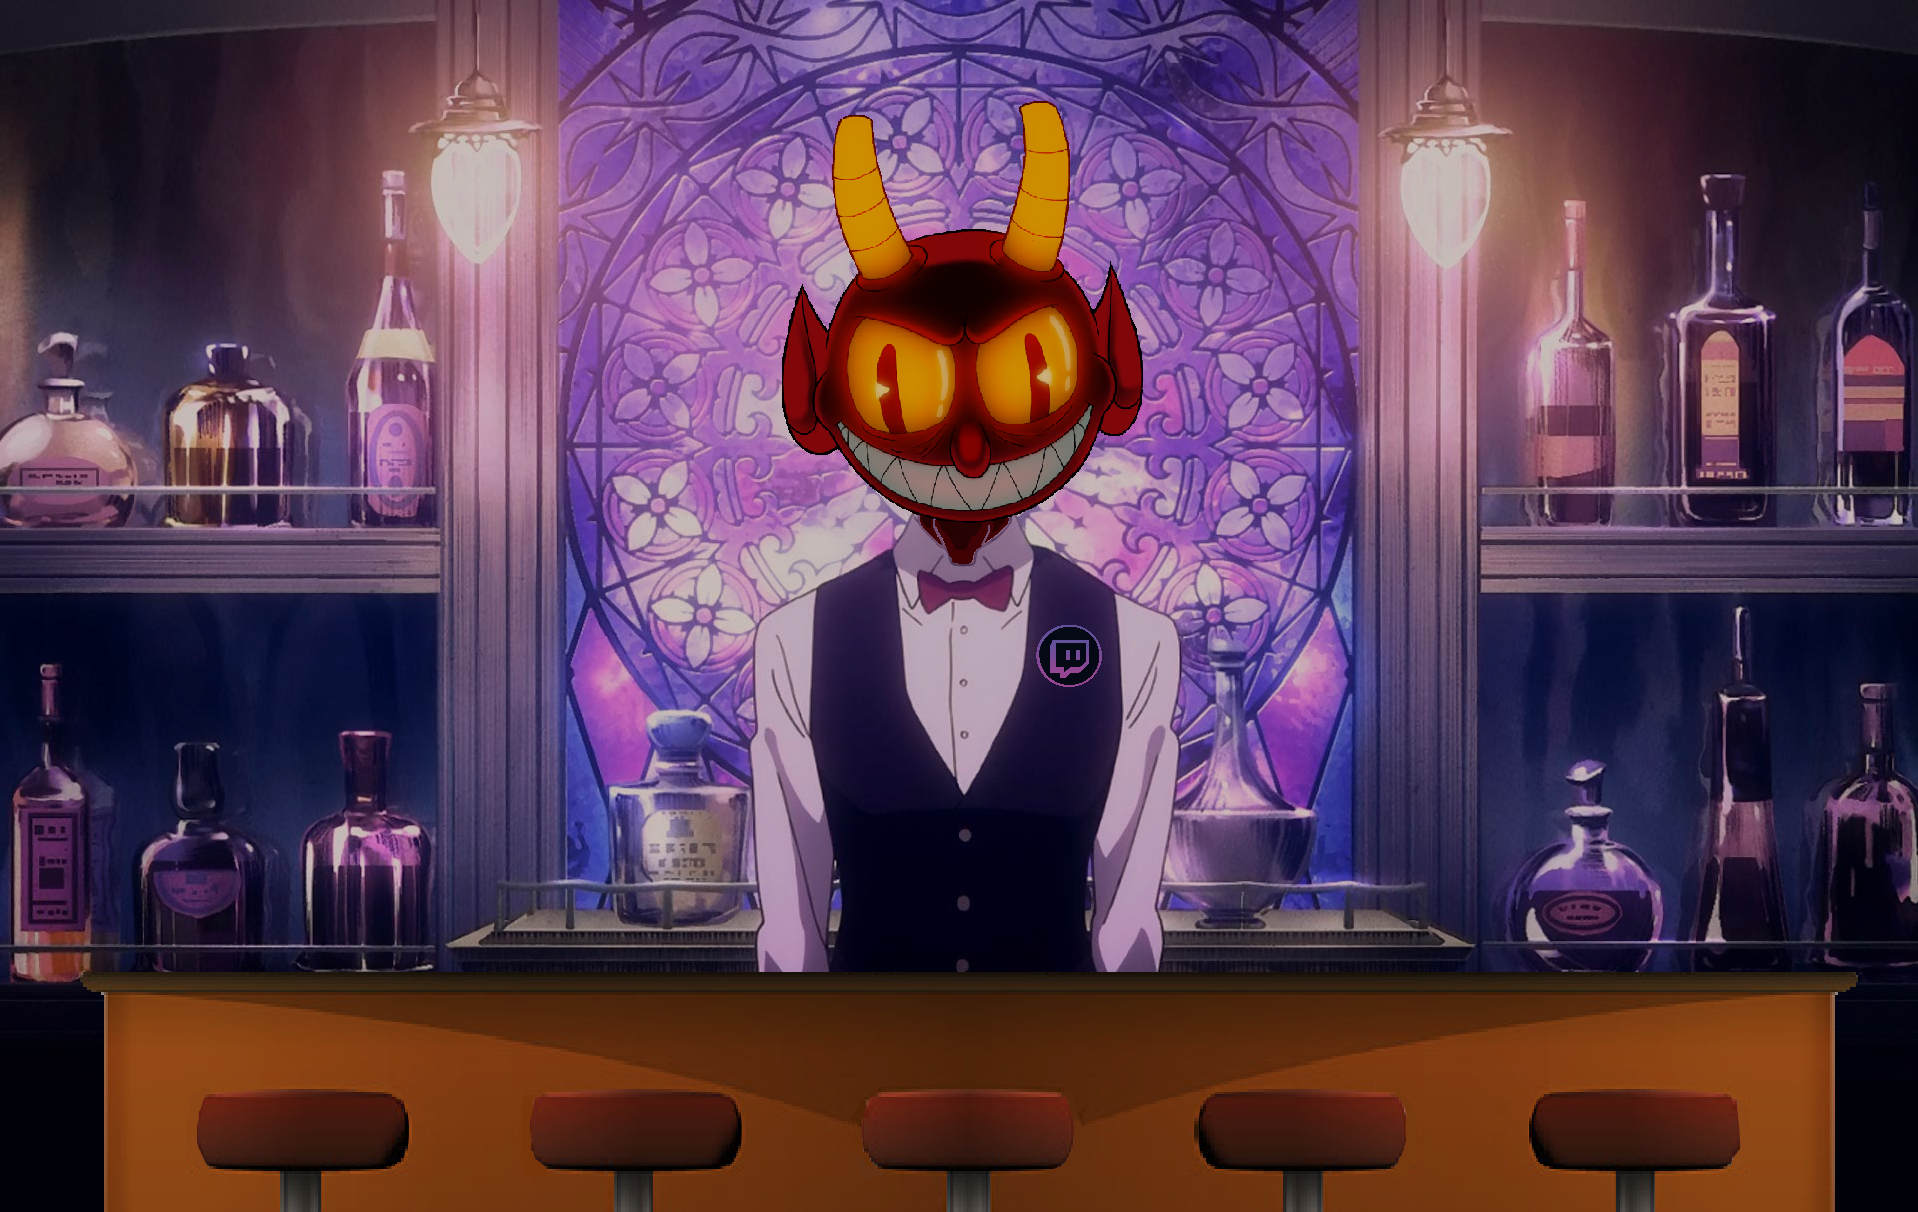
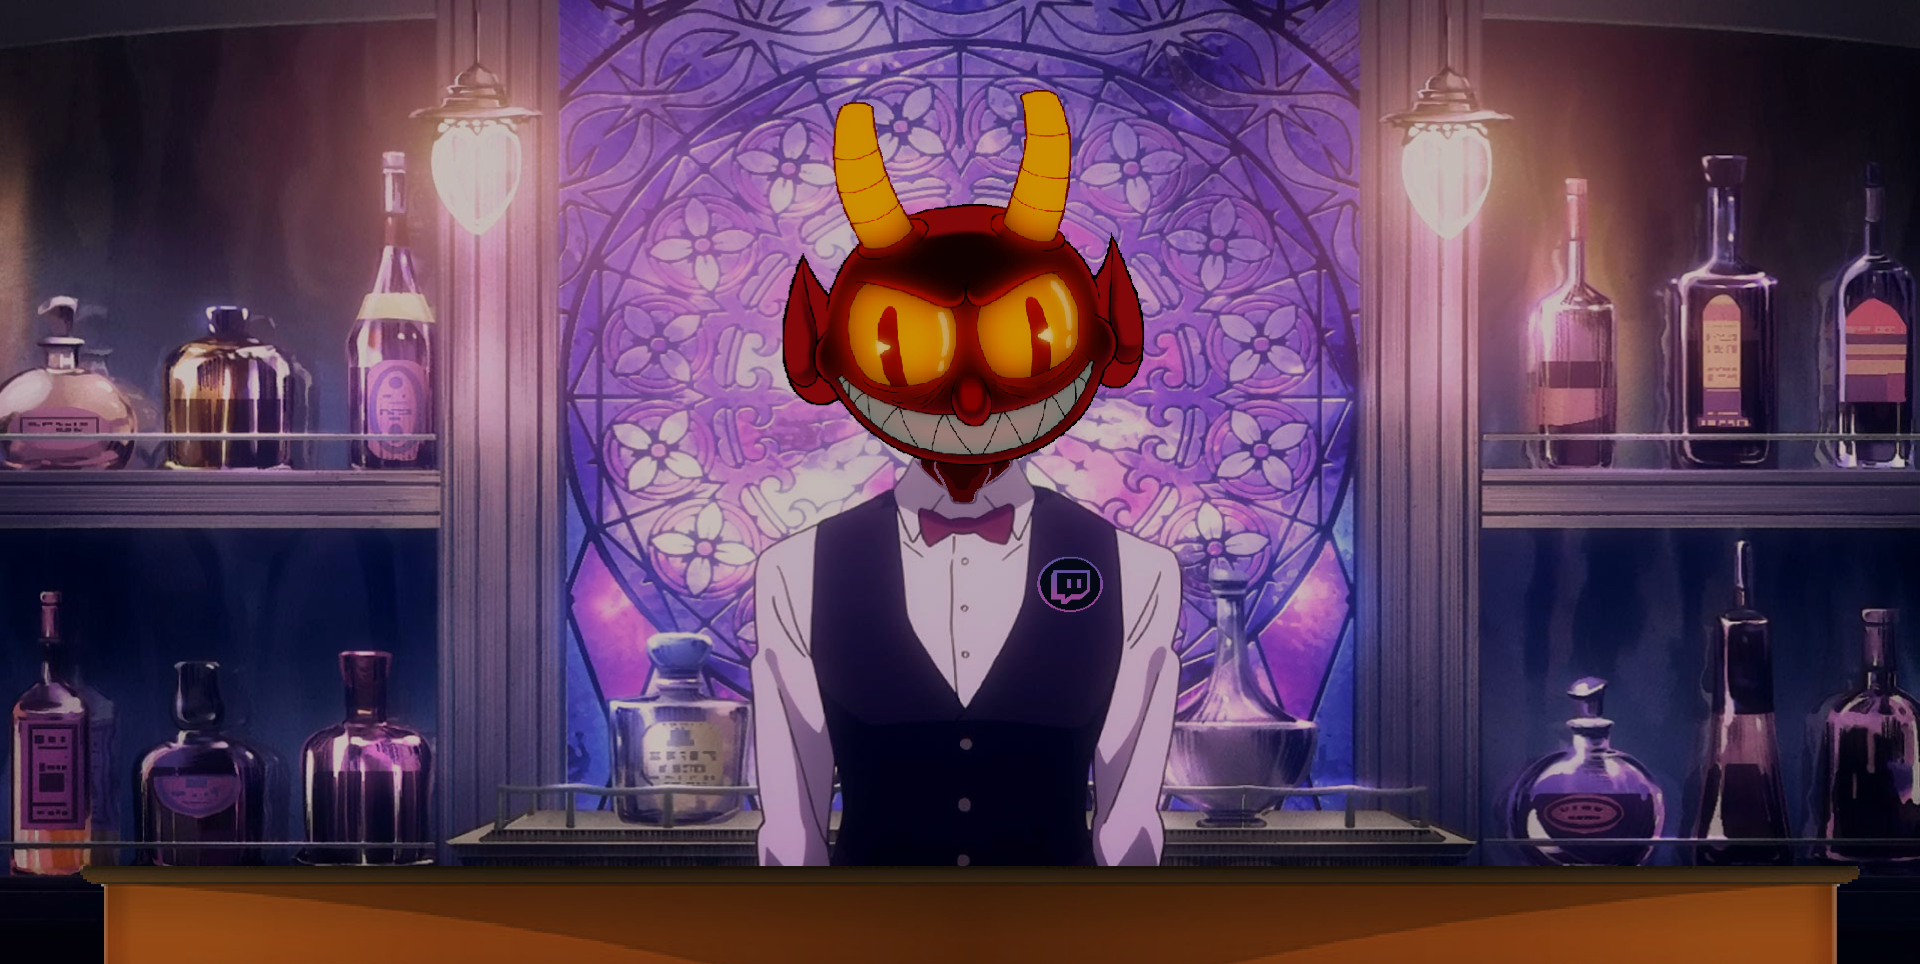
,aster

diff --git a/index.html b/index.html
@@ -46,22 +46,22 @@
       <div class="grid">
         <div class="trago">
           <div class="trago__img"><a href="/TDS/pages/charlemos.html" >
-            <img src="/TDS/images/botella2.png"width="240"height="480"alt="charlemos"
+            <img src="/TDS/images/botella 1.png"width="100"height="300"alt="charlemos"
             /></a> </div>
             <H5 class="Charlemos">CHARLEMOS</H5>
           </div>
           <div class="trago">
             <div class="trago__img"><a href="/TDS/pages/ListaDeVideos.html" >
-              <img src="https://i.pinimg.com/originals/c6/01/26/c60126bd31717d5b7cf4b6d8a70cb478.png"width="200"height="300"alt="Los videos"
+              <img src="https://pngimg.com/uploads/beer/beer_PNG2333.png"width="85"height="190"alt="Los videos"
               /></a> </div><H5 class="ListaDeVideos">LISTA DE VIDEOS</H5> 
             </div>
             <div class="trago">
               <div class="trago__img">
                 <a href="/TDS/pages/Integrantes.html">
                   <img
-                  src="https://pngimg.com/uploads/beer/beer_PNG2333.png"
-                  width="130"
-                  height="180"
+                  src="./images/fernet.png"
+                  width="85"
+                  height="190"
                   alt="Integrantes"
                   /></a>
                 </div>

diff --git a/style/Cantinero.css b/style/Cantinero.css
@@ -54,10 +54,10 @@ body {
   display: flex;
   background: url(/TDS/images/Cantinero.png) center;
   width: 100%;
-  height: 1000px;
-  justify-content: space-around;
-  align-items: center;
-  gap: 10px;
+  height: 950px;
+  justify-content: space-between;
+  align-items: flex-end;
+  gap: 5px;
   border: 15px solid rgba(0, 0, 0, 0.418);
   cursor: grabbing;
 }
